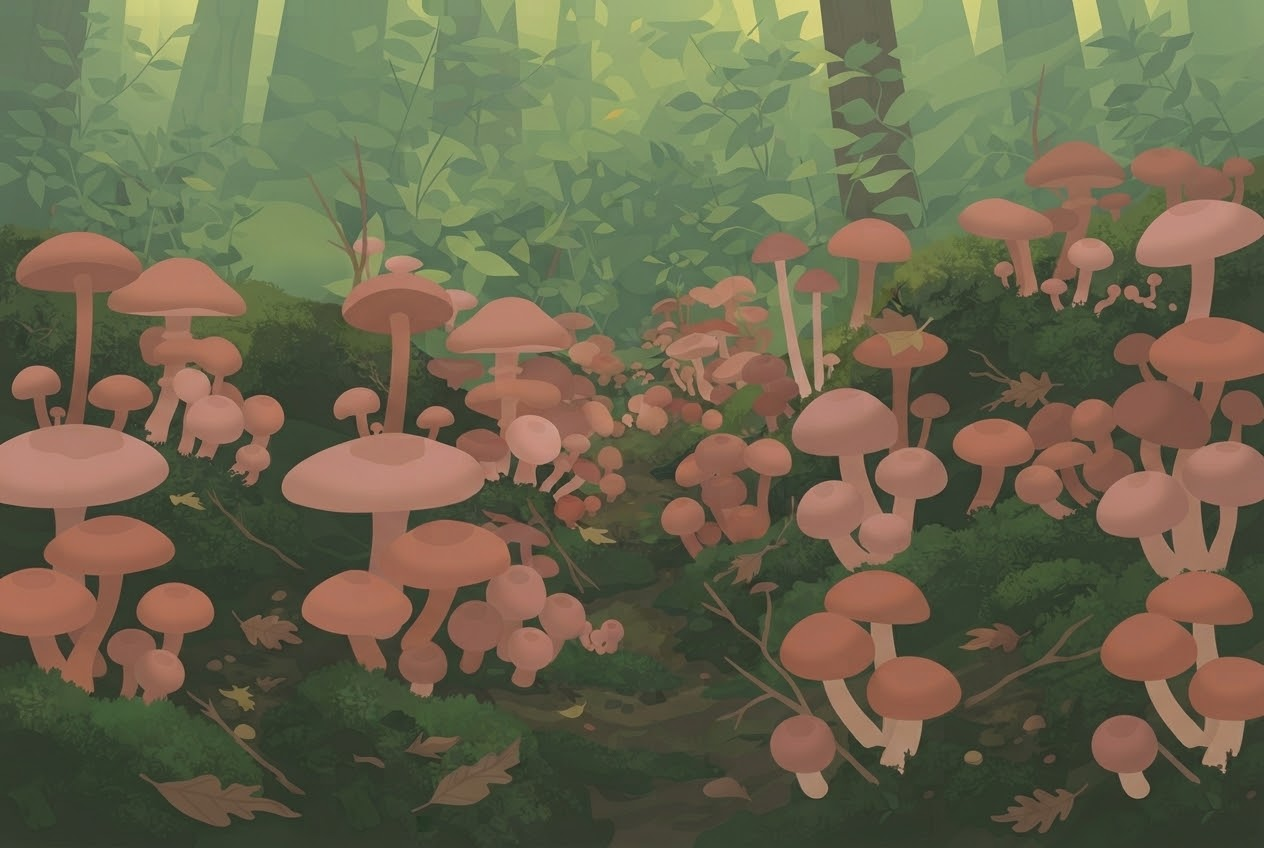
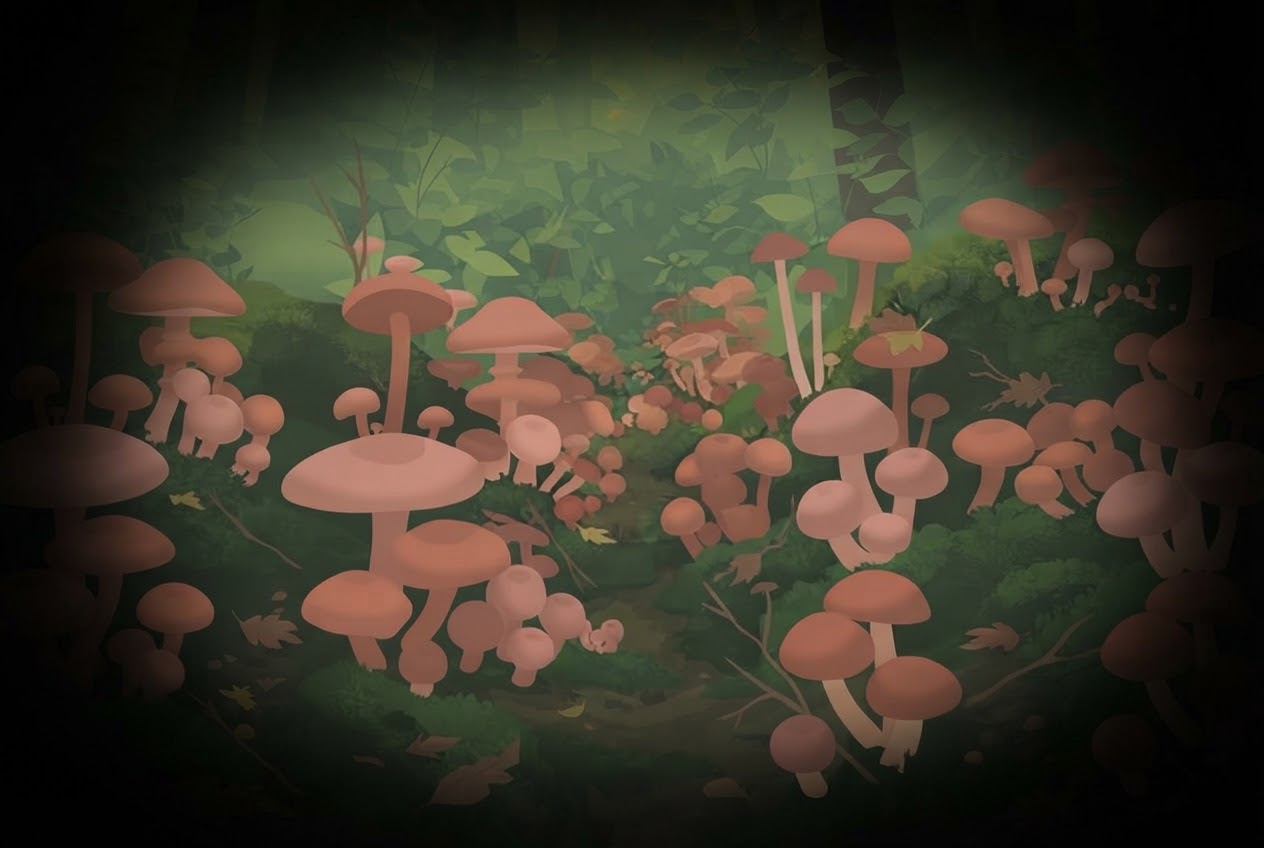
We Built Other: navneskifte, købs-kontakter, nyt forsidebillede

diff --git a/lib/translations.js b/lib/translations.js
@@ -1,4 +1,4 @@
-// Oversættelsesordbog for hele Campifai. Hver nøgle findes på både da og en.
+// Oversættelsesordbog for hele We Built Other. Hver nøgle findes på både da og en.
 // Nøgler er navngivet efter side/komponent, fx "nav.browse", "dashboard.artists.title".
 export const translations = {
   da: {
@@ -50,7 +50,7 @@ export const translations = {
     // ----- Forside -----
     'home.hero.title': 'Det eneste, der tæller, er musikken.',
     'home.hero.body':
-      'Campifai er det kuraterede fristed for interessant musik, hvor vi ikke bekymrer os om dens oprindelse, men blot sætter pris på at den findes. Lyt til sæsonens musikkollektion her på siden, eller download den med donation.',
+      'We Built Other er det kuraterede fristed for interessant musik, hvor vi ikke bekymrer os om dens oprindelse, men blot sætter pris på at den findes. Lyt til sæsonens musikkollektion her på siden, eller download den med donation.',
     'home.hero.guestNotice.pre': 'Du kan gennemse kataloget herunder.',
     'home.hero.guestNotice.or': 'eller',
     'home.hero.guestNotice.post': 'for at lytte.',
@@ -157,13 +157,15 @@ export const translations = {
     'purchase.donation.donation_ecf': 'Donér til European Cultural Foundation',
     'purchase.donation.donation_sweet_relief': 'Donér til Sweet Relief Musicians Fund',
     'purchase.comingSoon': 'Kommer snart',
-    'purchase.payByCard': 'Betal med kort',
+    'purchase.payByCard': 'Køb',
     'purchase.card.amountLabel': 'Dit beløb i EUR ({suggested} foreslået, maks {max}, eller 0 for gratis adgang)',
     'purchase.card.continue': 'Fortsæt til betaling',
     'purchase.card.redirecting': 'Sender dig til betaling...',
     'purchase.card.invalidAmount': 'Angiv 0 for gratis adgang, eller et beløb mellem 0,50 og {max} EUR.',
     'purchase.card.failed': 'Kunne ikke starte betalingen. Prøv igen.',
-    'purchase.card.secureNote': 'Betalingen foregår hos Stripe. Dine kortoplysninger kommer aldrig til Campifai.',
+    'purchase.card.disabled': 'Køb er midlertidigt slået fra.',
+    'purchase.unavailable': 'Det er i øjeblikket ikke muligt at låse adgang op. Prøv igen senere.',
+    'purchase.card.secureNote': 'Betalingen foregår hos Stripe. Dine kortoplysninger kommer aldrig til We Built Other.',
     'payment.confirming': 'Bekræfter din betaling...',
     'payment.done': 'Tak for din støtte! Download er nu låst op.',
     'payment.canceled': 'Betalingen blev annulleret. Du er ikke blevet trukket.',
@@ -240,6 +242,9 @@ export const translations = {
     'admin.tabs.users': 'Brugere ({count})',
     'admin.tabs.artists': 'Kunstnere ({count})',
     'admin.collectionsLink': 'Kollektioner',
+    'admin.settings.title': 'Indstillinger',
+    'admin.settings.purchases': 'Køb aktiveret',
+    'admin.settings.donations': 'Donationer aktiveret',
     'admin.searchUsers': 'Søg på navn eller email',
     'admin.searchArtists': 'Søg på kunstner eller publisher',
     'admin.noUsersFound': 'Ingen brugere fundet.',
@@ -368,7 +373,7 @@ export const translations = {
     // ----- Homepage -----
     'home.hero.title': "The only thing that matters is the music.",
     'home.hero.body':
-      "Campifai is the curated sanctuary for interesting music — we don't care where it came from, only that it exists. Listen to the season's music collection right here on the site, or download it with a donation.",
+      "We Built Other is the curated sanctuary for interesting music — we don't care where it came from, only that it exists. Listen to the season's music collection right here on the site, or download it with a donation.",
     'home.hero.guestNotice.pre': 'You can browse the catalogue below.',
     'home.hero.guestNotice.or': 'or',
     'home.hero.guestNotice.post': 'to listen.',
@@ -475,13 +480,15 @@ export const translations = {
     'purchase.donation.donation_ecf': 'Donate to European Cultural Foundation',
     'purchase.donation.donation_sweet_relief': 'Donate to Sweet Relief Musicians Fund',
     'purchase.comingSoon': 'Coming soon',
-    'purchase.payByCard': 'Pay by card',
+    'purchase.payByCard': 'Buy',
     'purchase.card.amountLabel': 'Your amount in EUR ({suggested} suggested, {max} max, or 0 for free access)',
     'purchase.card.continue': 'Continue to payment',
     'purchase.card.redirecting': 'Sending you to payment...',
     'purchase.card.invalidAmount': 'Enter 0 for free access, or an amount between 0.50 and {max} EUR.',
     'purchase.card.failed': 'Could not start the payment. Please try again.',
-    'purchase.card.secureNote': 'Payment is handled by Stripe. Your card details never reach Campifai.',
+    'purchase.card.disabled': 'Purchases are temporarily turned off.',
+    'purchase.unavailable': 'Unlocking access is currently unavailable. Please try again later.',
+    'purchase.card.secureNote': 'Payment is handled by Stripe. Your card details never reach We Built Other.',
     'payment.confirming': 'Confirming your payment...',
     'payment.done': 'Thank you for your support! Download is now unlocked.',
     'payment.canceled': 'The payment was canceled. You have not been charged.',
@@ -558,6 +565,9 @@ export const translations = {
     'admin.tabs.users': 'Users ({count})',
     'admin.tabs.artists': 'Artists ({count})',
     'admin.collectionsLink': 'Collections',
+    'admin.settings.title': 'Settings',
+    'admin.settings.purchases': 'Purchases enabled',
+    'admin.settings.donations': 'Donations enabled',
     'admin.searchUsers': 'Search by name or email',
     'admin.searchArtists': 'Search by artist or publisher',
     'admin.noUsersFound': 'No users found.',

diff --git a/components/PurchaseGate.js b/components/PurchaseGate.js
@@ -3,6 +3,7 @@ import { useEffect, useState } from 'react'
 import { supabase } from '../lib/supabase'
 import { DONATION_OPTIONS, recordPurchase } from '../lib/purchases'
 import { getPricingRules, parseAmountToCents } from '../lib/pricing'
+import { getAppSettings } from '../lib/appSettings'
 import { useLanguage } from './LanguageProvider'
 
 // hasAccess: bool | null (null = tjekker stadig)
@@ -12,11 +13,16 @@ import { useLanguage } from './LanguageProvider'
 export default function PurchaseGate({ scope, releaseId, collectionId, releaseType, itemLabel, hasAccess, onGranted }) {
   const { t } = useLanguage()
   const rules = getPricingRules(scope, releaseType)
+  const [settings, setSettings] = useState(null) // null = henter stadig
   const [busyKey, setBusyKey] = useState('')
   const [error, setError] = useState('')
   const [cardOpen, setCardOpen] = useState(false)
   const [amount, setAmount] = useState(String(rules?.suggestedEur ?? ''))
   const [cardBusy, setCardBusy] = useState(false)
+
+  useEffect(() => {
+    getAppSettings(supabase).then(setSettings)
+  }, [])
 
   // Kommer man tilbage til siden med "tilbage"-knappen fra Stripe, skal knappen ikke sidde fast
   useEffect(() => {
@@ -67,7 +73,9 @@ export default function PurchaseGate({ scope, releaseId, collectionId, releaseTy
         setError(
           body.error === 'amount_invalid'
             ? t('purchase.card.invalidAmount', { max: rules.maxEur })
-            : t('purchase.card.failed')
+            : body.error === 'purchases_disabled'
+              ? t('purchase.card.disabled')
+              : t('purchase.card.failed')
         )
         setCardBusy(false)
         return
@@ -79,8 +87,18 @@ export default function PurchaseGate({ scope, releaseId, collectionId, releaseTy
     }
   }
 
-  if (hasAccess === null) return <p className="notice">{t('common.loading')}</p>
+  if (hasAccess === null || settings === null) return <p className="notice">{t('common.loading')}</p>
   if (hasAccess) return null
+
+  const { purchasesEnabled, donationsEnabled } = settings
+
+  if (!purchasesEnabled && !donationsEnabled) {
+    return (
+      <div className="panel" style={{ marginBottom: 20 }}>
+        <p className="notice" style={{ margin: 0 }}>{t('purchase.unavailable')}</p>
+      </div>
+    )
+  }
 
   return (
     <div className="panel" style={{ marginBottom: 20 }}>
@@ -88,23 +106,26 @@ export default function PurchaseGate({ scope, releaseId, collectionId, releaseTy
         {t('purchase.supportPrompt', { item: itemLabel })}
       </p>
       <div style={{ display: 'flex', gap: 8, flexWrap: 'wrap' }}>
-        {DONATION_OPTIONS.map((o) => (
-          <button
-            key={o.key}
-            className="btn ghost"
-            type="button"
-            disabled={busyKey === o.key}
-            onClick={() => handleDonate(o)}
-          >
-            {busyKey === o.key ? t('purchase.opening') : t(`purchase.donation.${o.key}`)}
+        {donationsEnabled &&
+          DONATION_OPTIONS.map((o) => (
+            <button
+              key={o.key}
+              className="btn ghost"
+              type="button"
+              disabled={busyKey === o.key}
+              onClick={() => handleDonate(o)}
+            >
+              {busyKey === o.key ? t('purchase.opening') : t(`purchase.donation.${o.key}`)}
+            </button>
+          ))}
+        {purchasesEnabled && (
+          <button className="btn ghost" type="button" onClick={() => setCardOpen((open) => !open)}>
+            {t('purchase.payByCard')}
           </button>
-        ))}
-        <button className="btn ghost" type="button" onClick={() => setCardOpen((open) => !open)}>
-          {t('purchase.payByCard')}
-        </button>
+        )}
       </div>
 
-      {cardOpen && rules && (
+      {purchasesEnabled && cardOpen && rules && (
         <form onSubmit={handleCard} style={{ marginTop: 16 }}>
           <div className="field" style={{ maxWidth: 260 }}>
             <label htmlFor={`amount-${scope}`}>

diff --git a/app/admin/page.js b/app/admin/page.js
@@ -36,6 +36,8 @@ export default function AdminPage() {
   const [artistEdits, setArtistEdits] = useState({})
   const [msg, setMsg] = useState(null)
   const [busy, setBusy] = useState('')
+  const [settings, setSettings] = useState(null)
+  const [savingSettings, setSavingSettings] = useState(false)
 
   useEffect(() => {
     supabase.auth.getSession().then(({ data }) => setSession(data.session))
@@ -54,9 +56,34 @@ export default function AdminPage() {
     const { data } = await supabase.from('profiles').select('*').eq('id', session.user.id).single()
     setMe(data || null)
     if (data?.role === 'admin') {
-      await Promise.all([loadUsers(), loadArtists()])
+      await Promise.all([loadUsers(), loadArtists(), loadSettings()])
     }
     setChecked(true)
+  }
+
+  async function loadSettings() {
+    const { data, error } = await supabase
+      .from('app_settings')
+      .select('purchases_enabled, donations_enabled')
+      .eq('id', 1)
+      .maybeSingle()
+    if (!error && data) setSettings(data)
+  }
+
+  async function toggleSetting(field) {
+    if (!settings) return
+    setSavingSettings(true)
+    const next = { ...settings, [field]: !settings[field] }
+    const { error } = await supabase
+      .from('app_settings')
+      .update({ [field]: next[field] })
+      .eq('id', 1)
+    setSavingSettings(false)
+    if (error) {
+      setMsg({ type: 'error', text: error.message })
+      return
+    }
+    setSettings(next)
   }
 
   async function loadUsers() {
@@ -265,6 +292,30 @@ export default function AdminPage() {
           artists: artists.length,
         })}
       </p>
+
+      {settings && (
+        <div className="panel" style={{ maxWidth: 420, marginTop: 16, marginBottom: 8 }}>
+          <h3 style={{ fontSize: 16, marginBottom: 12 }}>{t('admin.settings.title')}</h3>
+          <label style={{ display: 'flex', alignItems: 'center', gap: 10, marginBottom: 10, fontSize: 14 }}>
+            <input
+              type="checkbox"
+              checked={settings.purchases_enabled}
+              disabled={savingSettings}
+              onChange={() => toggleSetting('purchases_enabled')}
+            />
+            {t('admin.settings.purchases')}
+          </label>
+          <label style={{ display: 'flex', alignItems: 'center', gap: 10, fontSize: 14 }}>
+            <input
+              type="checkbox"
+              checked={settings.donations_enabled}
+              disabled={savingSettings}
+              onChange={() => toggleSetting('donations_enabled')}
+            />
+            {t('admin.settings.donations')}
+          </label>
+        </div>
+      )}
 
       <div style={{ display: 'flex', gap: 8, margin: '20px 0 12px' }}>
         <button className={tab === 'users' ? 'btn' : 'btn ghost'} onClick={() => setTab('users')}>

diff --git a/app/globals.css b/app/globals.css
@@ -18,12 +18,15 @@ a { color: inherit; text-decoration: none; }
 .wrap { max-width: 900px; margin: 0 auto; padding: 0 20px 60px; }
 
 .top { border-bottom: 1px solid var(--border); position: sticky; top: 0; background: var(--bg); z-index: 10; }
-.top-inner { display: flex; align-items: center; justify-content: space-between; padding: 16px 20px; max-width: 900px; margin: 0 auto; }
-.logo { font-family: 'Fraunces', serif; font-size: 22px; font-weight: 600; }
-.top-inner nav { display: flex; gap: 18px; align-items: center; font-size: 14px; color: var(--muted); }
+.top-inner { display: flex; align-items: center; justify-content: space-between; flex-wrap: wrap; row-gap: 8px; padding: 16px 20px; max-width: 900px; margin: 0 auto; }
+.logo { font-family: 'Fraunces', serif; font-size: 22px; font-weight: 600; white-space: nowrap; }
+.top-inner nav { display: flex; gap: 18px; align-items: center; flex-wrap: wrap; row-gap: 6px; font-size: 14px; color: var(--muted); }
+@media (max-width: 480px) {
+  .logo { font-size: 18px; }
+}
 .link-btn { background: none; border: none; font-family: inherit; font-size: 14px; color: var(--muted); cursor: pointer; padding: 0; }
 
-.hero { padding: 48px 0 36px; }
+.hero { padding: 48px 0 8px; }
 .hero-inner { display: flex; align-items: center; gap: 40px; flex-wrap: wrap; }
 .hero-text { flex: 1 1 320px; min-width: 260px; }
 .hero h1 { font-size: 36px; line-height: 1.15; max-width: 11ch; }

diff --git a/app/api/checkout/route.js b/app/api/checkout/route.js
@@ -35,6 +35,13 @@ export async function POST(req) {
   const user = await getUserFromRequest(admin, req)
   if (!user) return json({ error: 'unauthorized' }, 401)
 
+  const { data: settings } = await admin
+    .from('app_settings')
+    .select('purchases_enabled')
+    .eq('id', 1)
+    .maybeSingle()
+  if (settings && settings.purchases_enabled === false) return json({ error: 'purchases_disabled' }, 403)
+
   let body
   try {
     body = await req.json()
@@ -85,7 +92,7 @@ export async function POST(req) {
           price_data: {
             currency: CURRENCY,
             unit_amount: parsed.cents,
-            product_data: { name: `Campifai — ${title}` },
+            product_data: { name: `We Built Other — ${title}` },
           },
         },
       ],

diff --git a/lib/appSettings.js b/lib/appSettings.js
@@ -1,0 +1,17 @@
+// Globale til/fra-kontakter for køb og donationer, styret af admin.
+// Fejler henvisningen (fx netværksfejl), antager vi "slået til" som standard,
+// så en forbigående fejl ikke ved et uheld lukker for hele betalingsfunktionen.
+const DEFAULTS = { purchasesEnabled: true, donationsEnabled: true }
+
+export async function getAppSettings(supabase) {
+  const { data, error } = await supabase
+    .from('app_settings')
+    .select('purchases_enabled, donations_enabled')
+    .eq('id', 1)
+    .maybeSingle()
+  if (error || !data) return DEFAULTS
+  return {
+    purchasesEnabled: data.purchases_enabled,
+    donationsEnabled: data.donations_enabled,
+  }
+}

diff --git a/app/layout.js b/app/layout.js
@@ -4,12 +4,12 @@ import AuthGate from '../components/AuthGate'
 import { LanguageProvider } from '../components/LanguageProvider'
 
 export const metadata = {
-  title: 'Campifai',
+  title: 'We Built Other',
   description: 'Music straight from the artist to you',
   appleWebApp: {
     capable: true,
     statusBarStyle: 'black-translucent',
-    title: 'Campifai',
+    title: 'We Built Other',
   },
 }
 

diff --git a/components/Nav.js b/components/Nav.js
@@ -41,7 +41,7 @@ export default function Nav() {
   return (
     <header className="top">
       <div className="top-inner">
-        <Link href="/" className="logo">Campifai</Link>
+        <Link href="/" className="logo">We Built Other</Link>
         <nav style={{ display: 'flex', alignItems: 'center', gap: 18 }}>
           <Link href="/">{t('nav.browse')}</Link>
           {session ? (

diff --git a/app/manifest.js b/app/manifest.js
@@ -1,7 +1,7 @@
 export default function manifest() {
   return {
-    name: 'Campifai',
-    short_name: 'Campifai',
+    name: 'We Built Other',
+    short_name: 'We Built Other',
     description: 'Music straight from the artist to you',
     start_url: '/',
     display: 'standalone',
